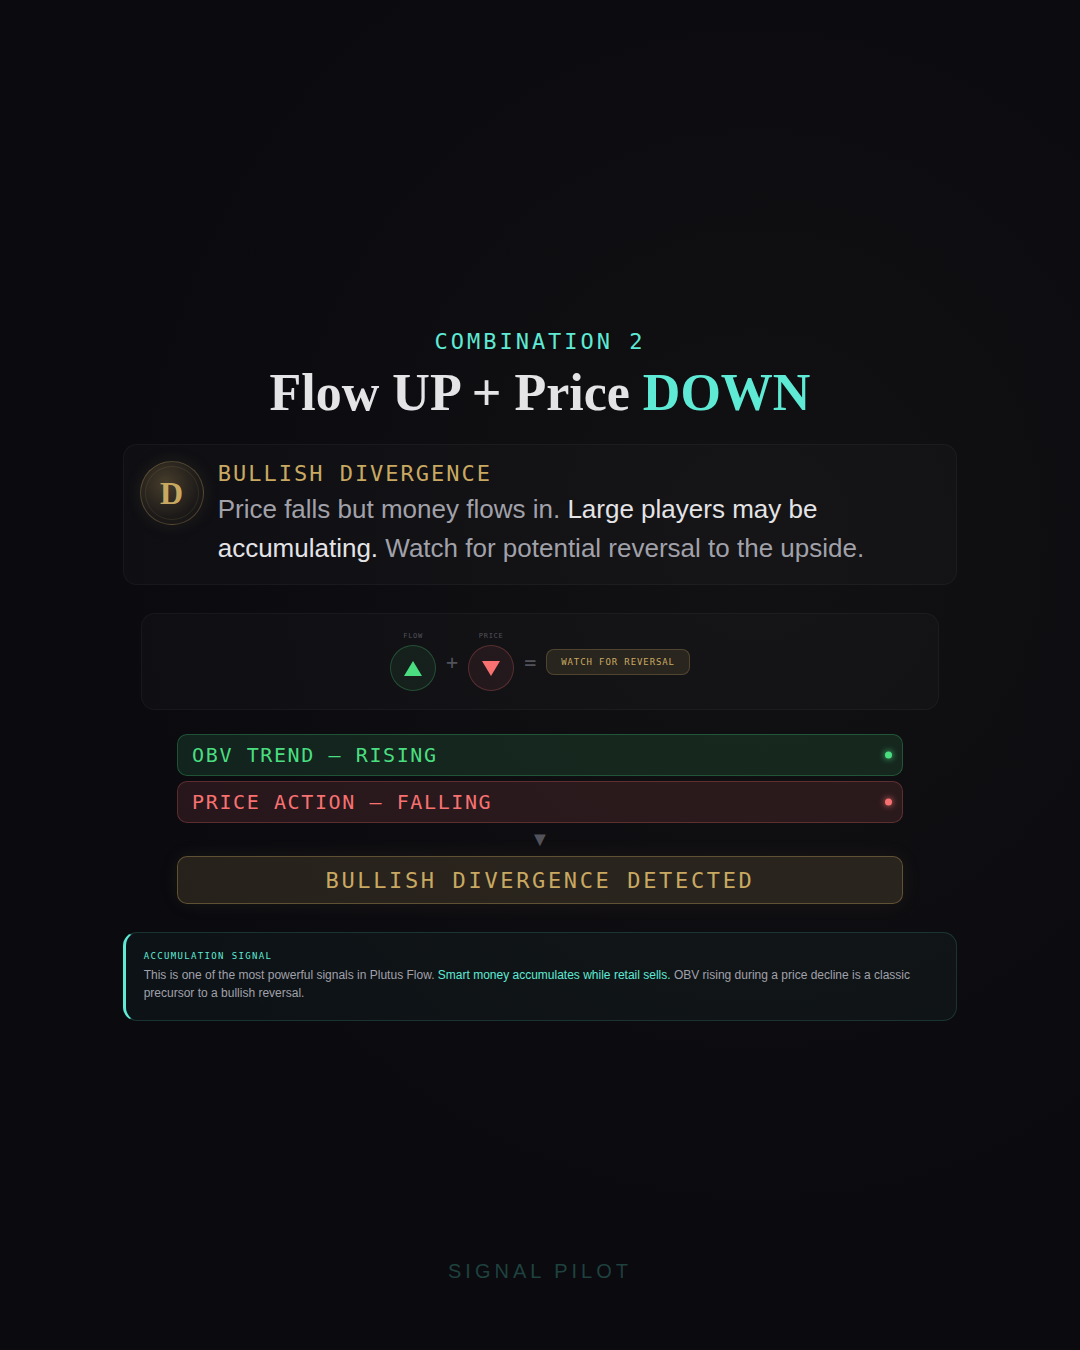
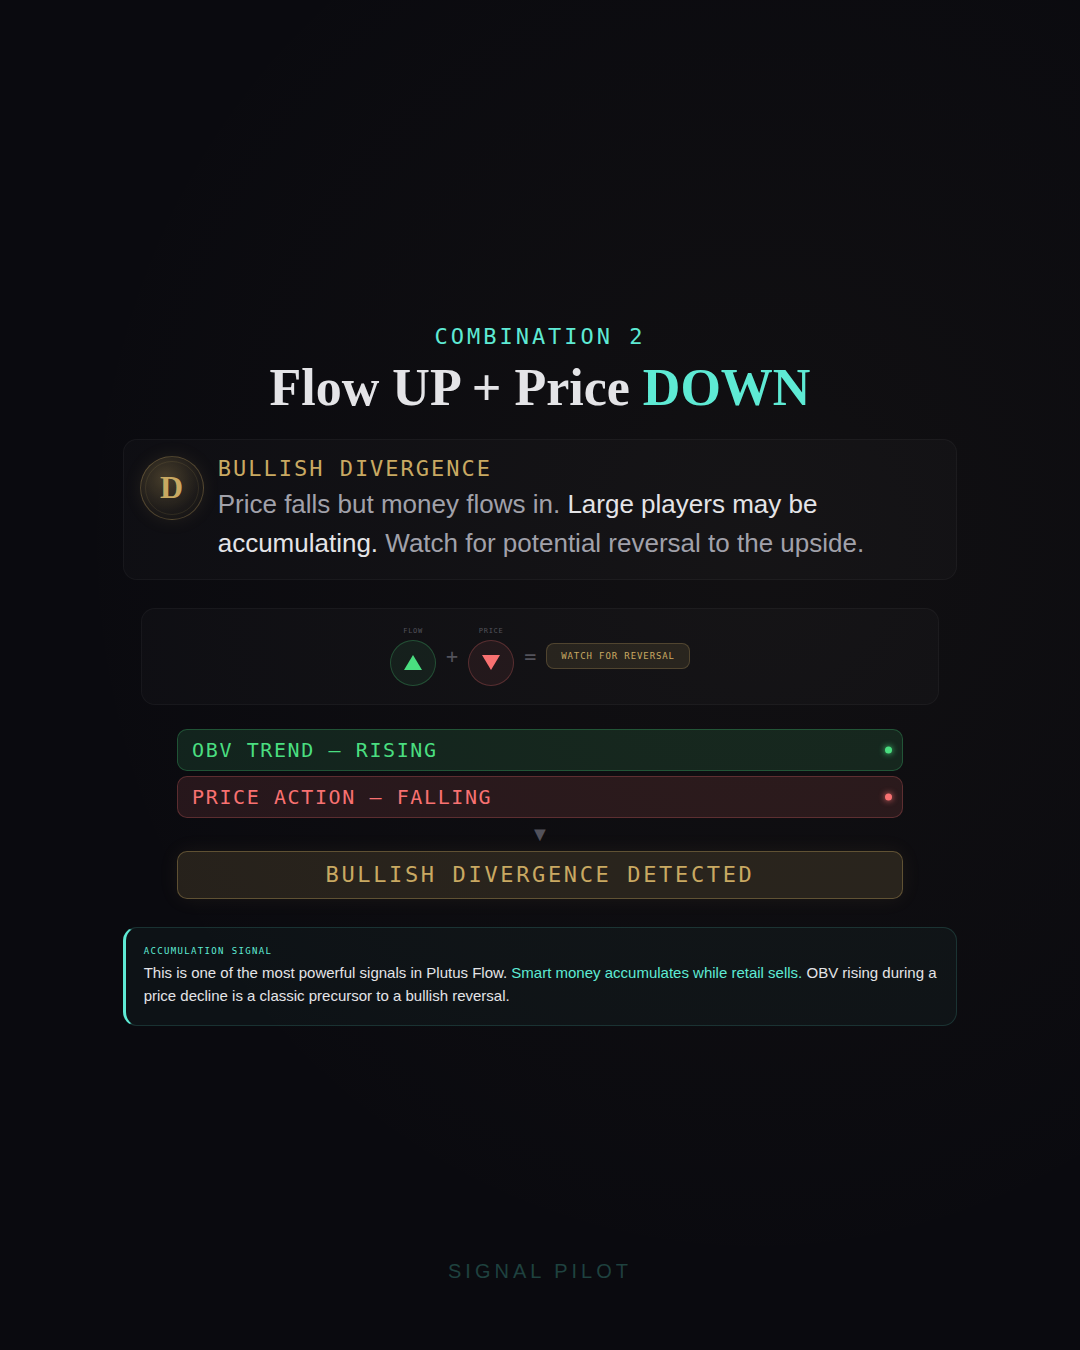
Fix slide-3 visibility: improve info-box text size and contrast
Increase .info-text font-size from clamp(8px,1.5cqw,12px) to clamp(11px,2.2cqw,15px) and change color from muted gray to bright white for better readability on Instagram. Text was barely visible due to small font and low contrast on teal background.

https://claude.ai/code/session_01JdAyDtW3X2RhJAyPJGnP6R

diff --git a/INSTAGRAM_CONTENT_HUB/social/post-040/carousel.html b/INSTAGRAM_CONTENT_HUB/social/post-040/carousel.html
@@ -170,7 +170,7 @@ body{background:var(--bg);color:var(--txt);font-family:var(--sans);min-height:10
 /* ── Info Box ── */
 .info-box{width:92%;padding:clamp(10px,2cqw,18px);border-radius:clamp(8px,1.5cqw,14px);background:rgba(94,234,212,0.04);border:1px solid rgba(94,234,212,0.15);border-left:3px solid var(--teal);text-align:left;margin-top:clamp(6px,1.5cqw,12px);}
 .info-label{font-family:var(--mono);font-size:clamp(6px,1.1cqw,9px);letter-spacing:0.15em;text-transform:uppercase;color:var(--teal);margin-bottom:clamp(3px,0.6cqw,5px);}
-.info-text{font-size:clamp(8px,1.5cqw,12px);color:var(--txt2);line-height:1.5;}
+.info-text{font-size:clamp(11px,2.2cqw,15px);color:var(--txt);line-height:1.55;}
 .info-text em{font-style:normal;color:var(--teal);}
 
 /* ── Stack Visualization ── */
